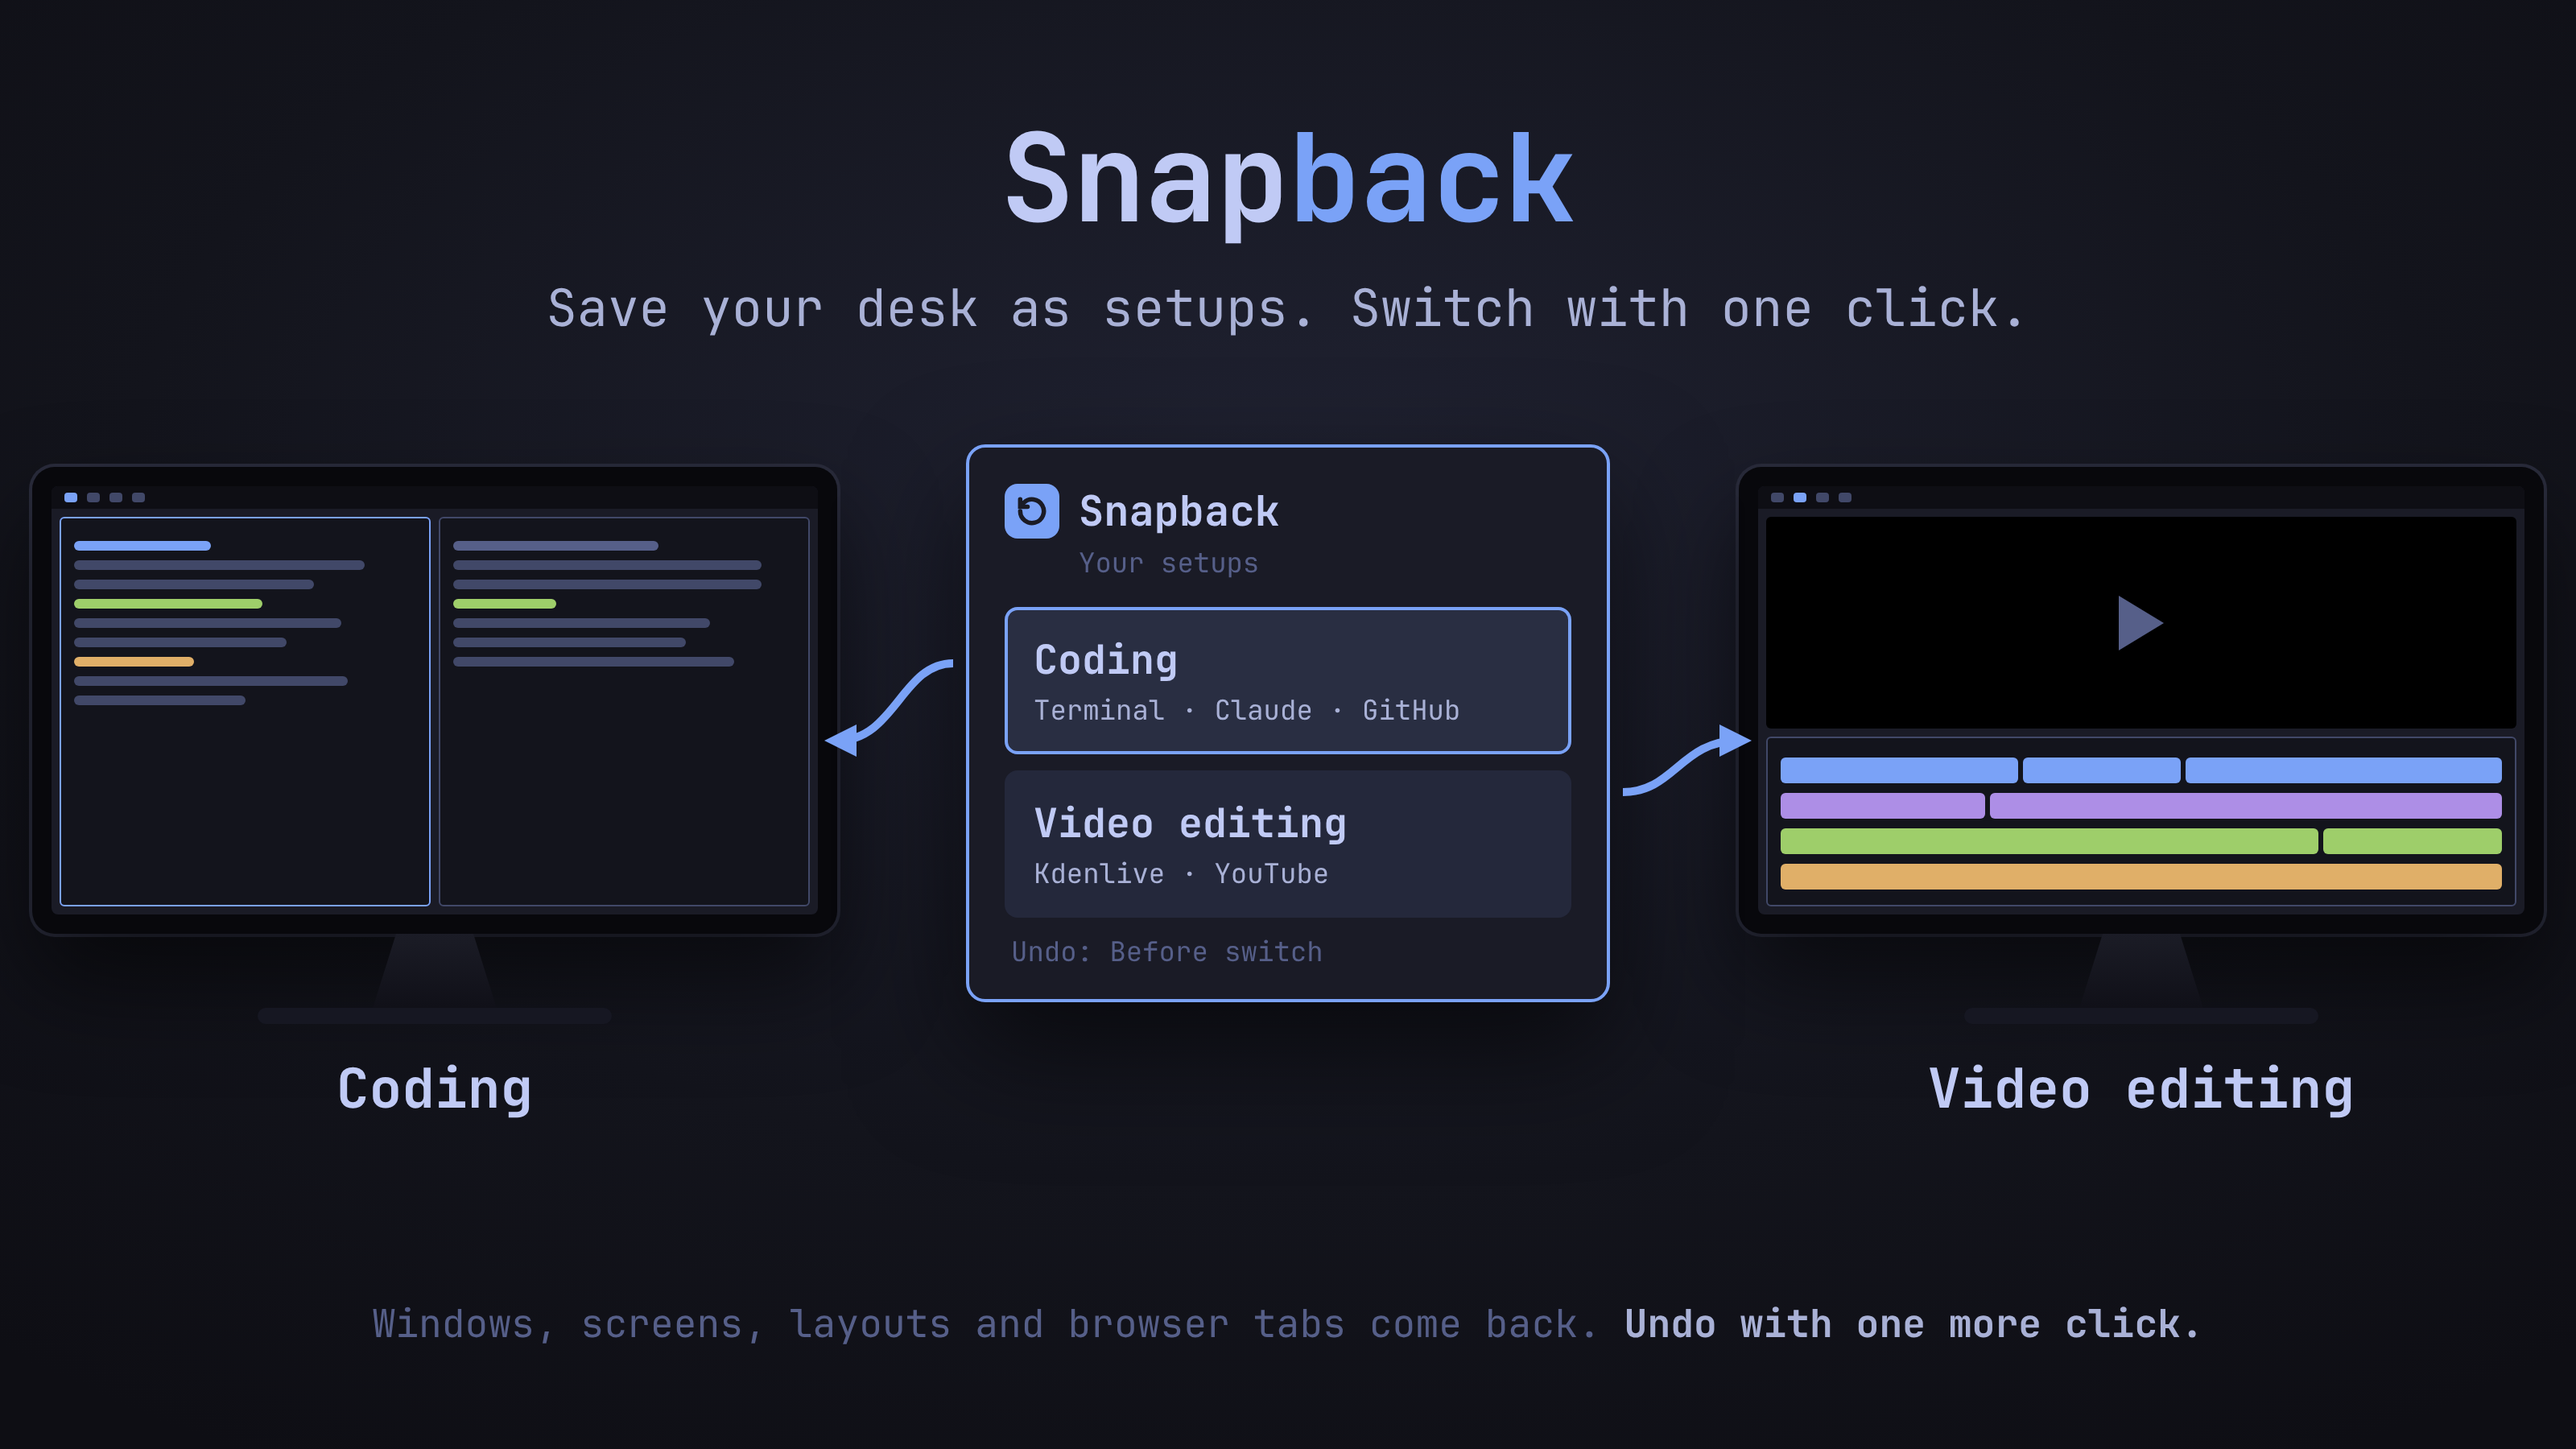
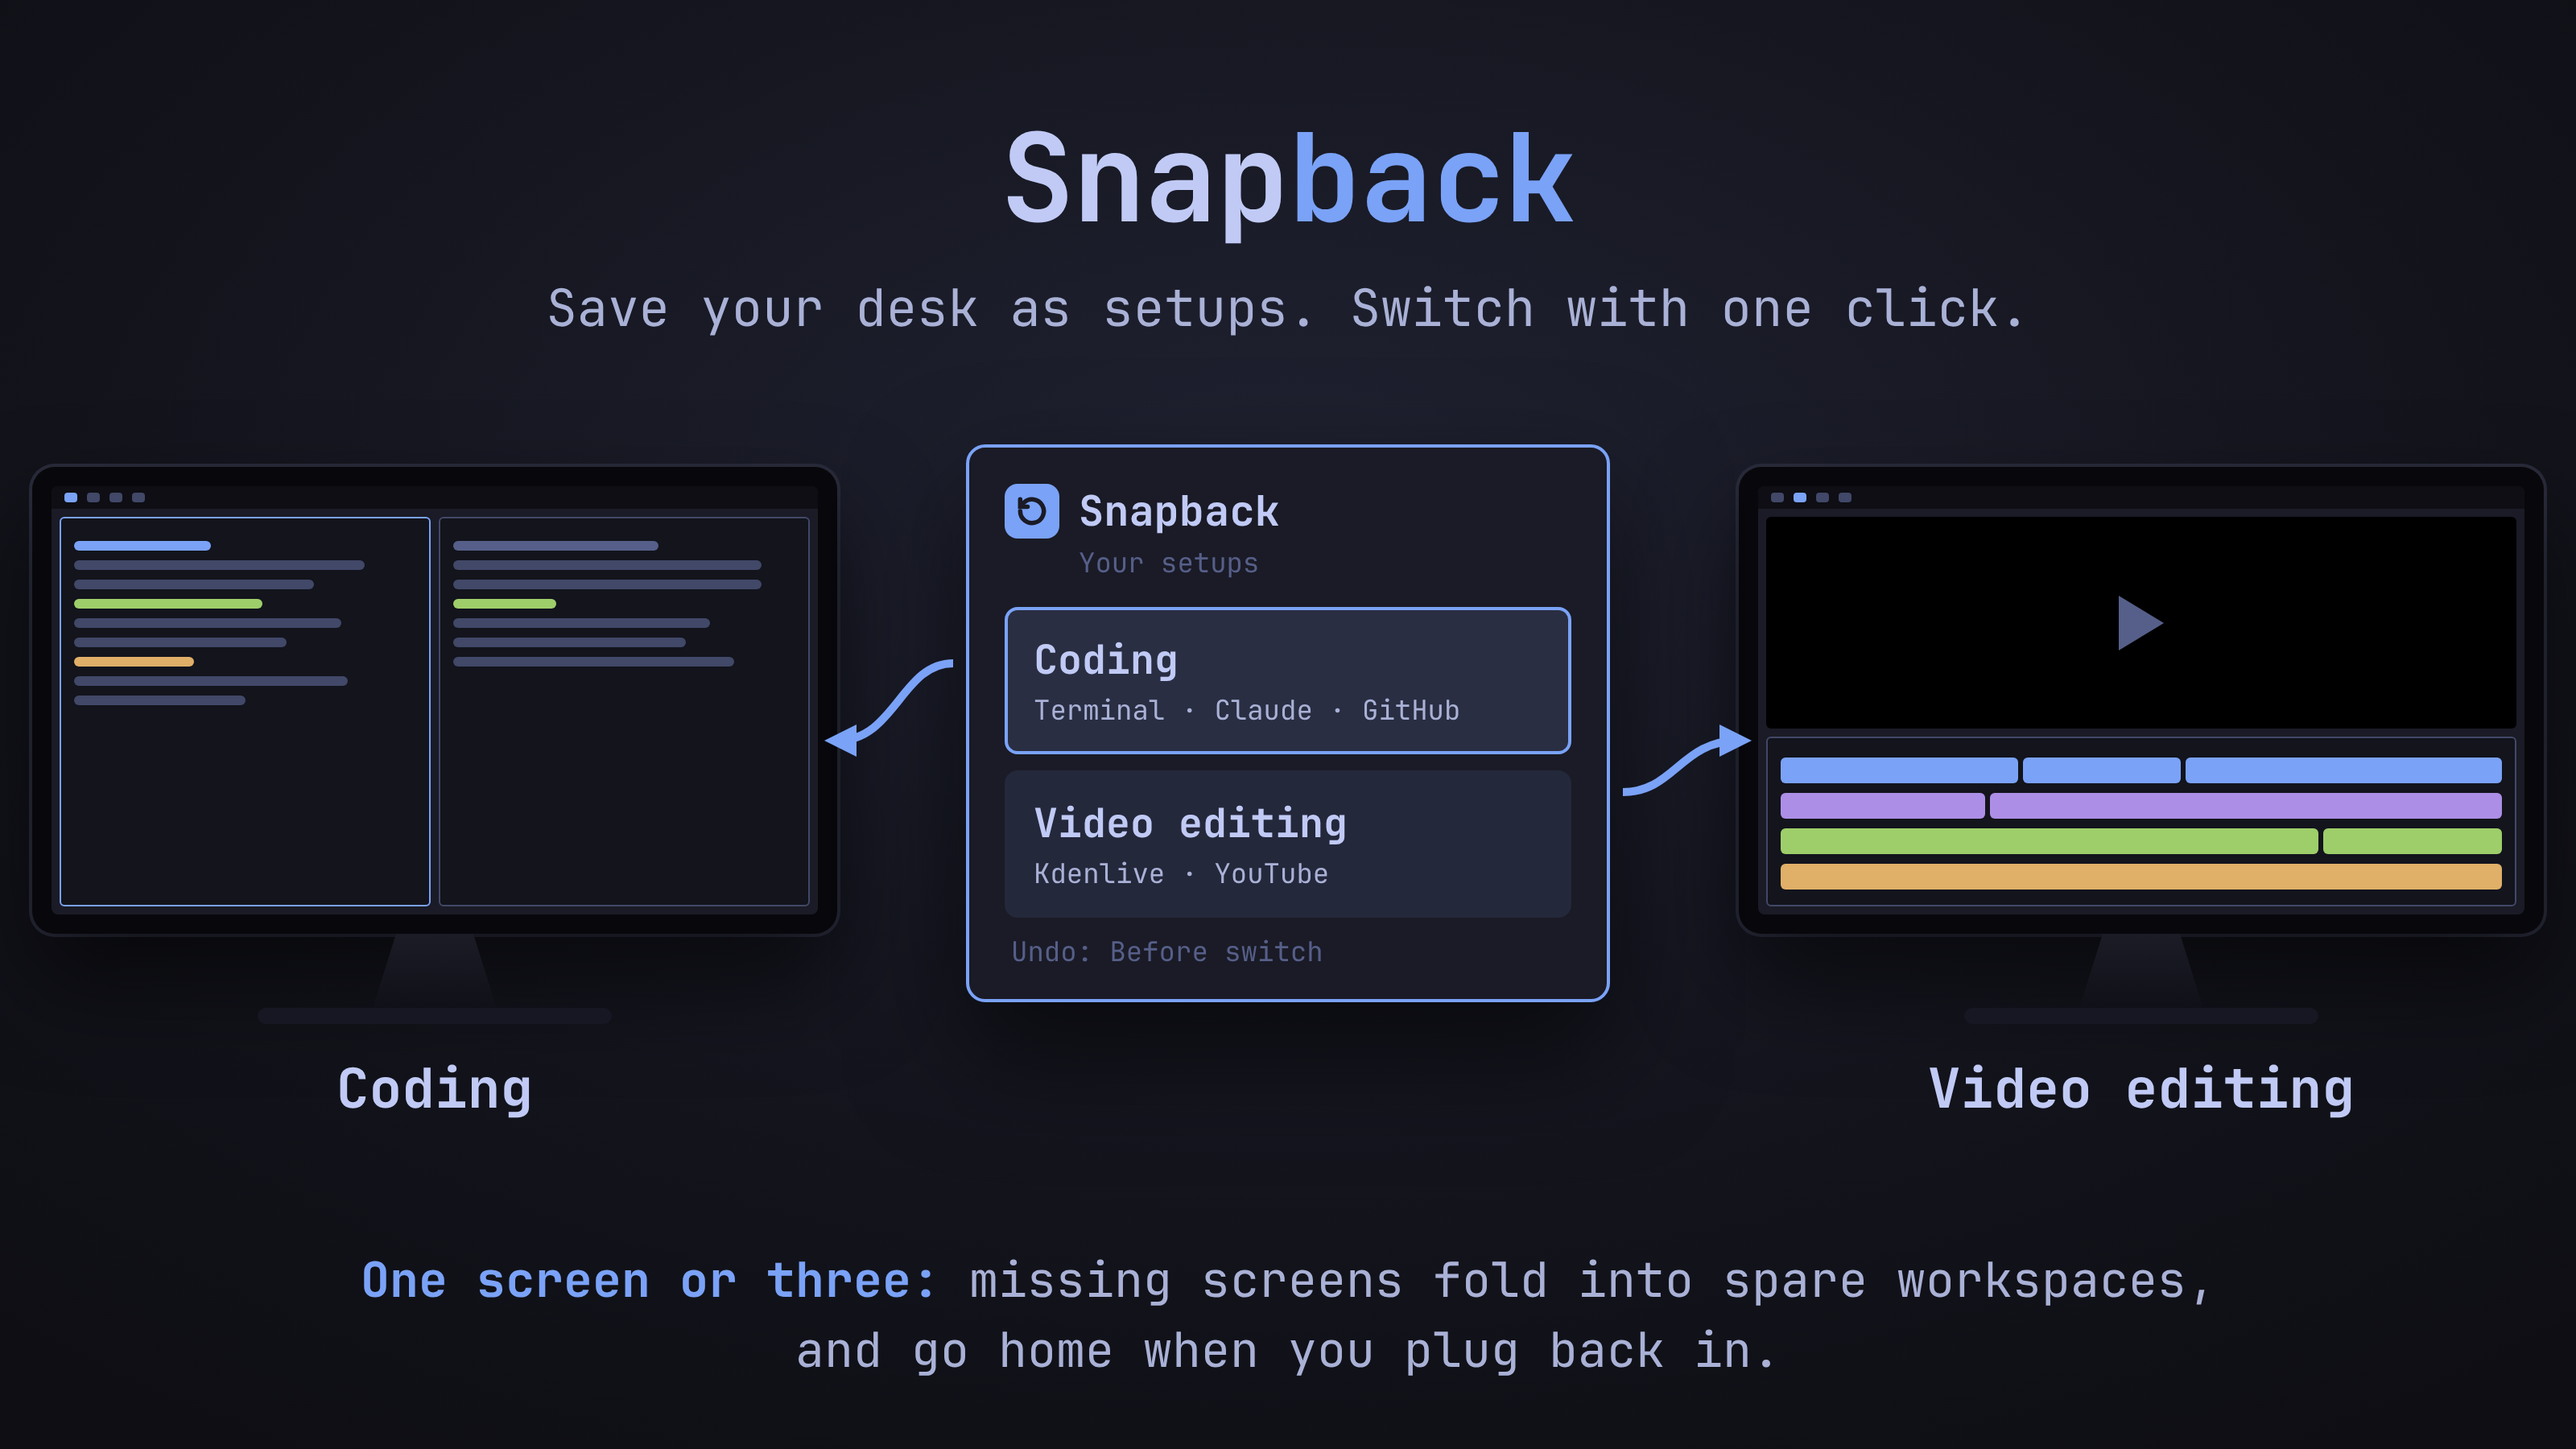
Preview card: say how setups work on one screen or three

Changed region(s): [[0.125, 0.8711, 0.8438, 0.9644]]

diff --git a/tools/preview.html b/tools/preview.html
@@ -66,8 +66,8 @@
   .undo { margin-top: 6px; font-size: 17px; color: var(--fg-dim); padding: 0 4px; }
 
   svg.arrows { position: absolute; inset: 0; pointer-events: none; }
-  .tagline { position: absolute; left: 0; right: 0; bottom: 62px; text-align: center; font-size: 24px; color: var(--fg-dim); }
-  .tagline b { color: var(--fg); font-weight: 600; }
+  .tagline { position: absolute; left: 0; right: 0; bottom: 40px; text-align: center; font-size: 30px; line-height: 1.45; color: var(--fg); }
+  .tagline b { color: var(--accent); font-weight: 700; }
 </style>
 </head>
 <body>
@@ -141,6 +141,6 @@
     <path d="M1008,492 C 1040,492 1044,460 1080,460" stroke="#7aa2f7" stroke-width="5" fill="none" marker-end="url(#tip)"/>
   </svg>
 
-  <div class="tagline">Windows, screens, layouts and browser tabs come back. <b>Undo with one more click.</b></div>
+  <div class="tagline"><b>One screen or three:</b> missing screens fold into spare workspaces,<br>and go home when you plug back in.</div>
 </body>
 </html>
